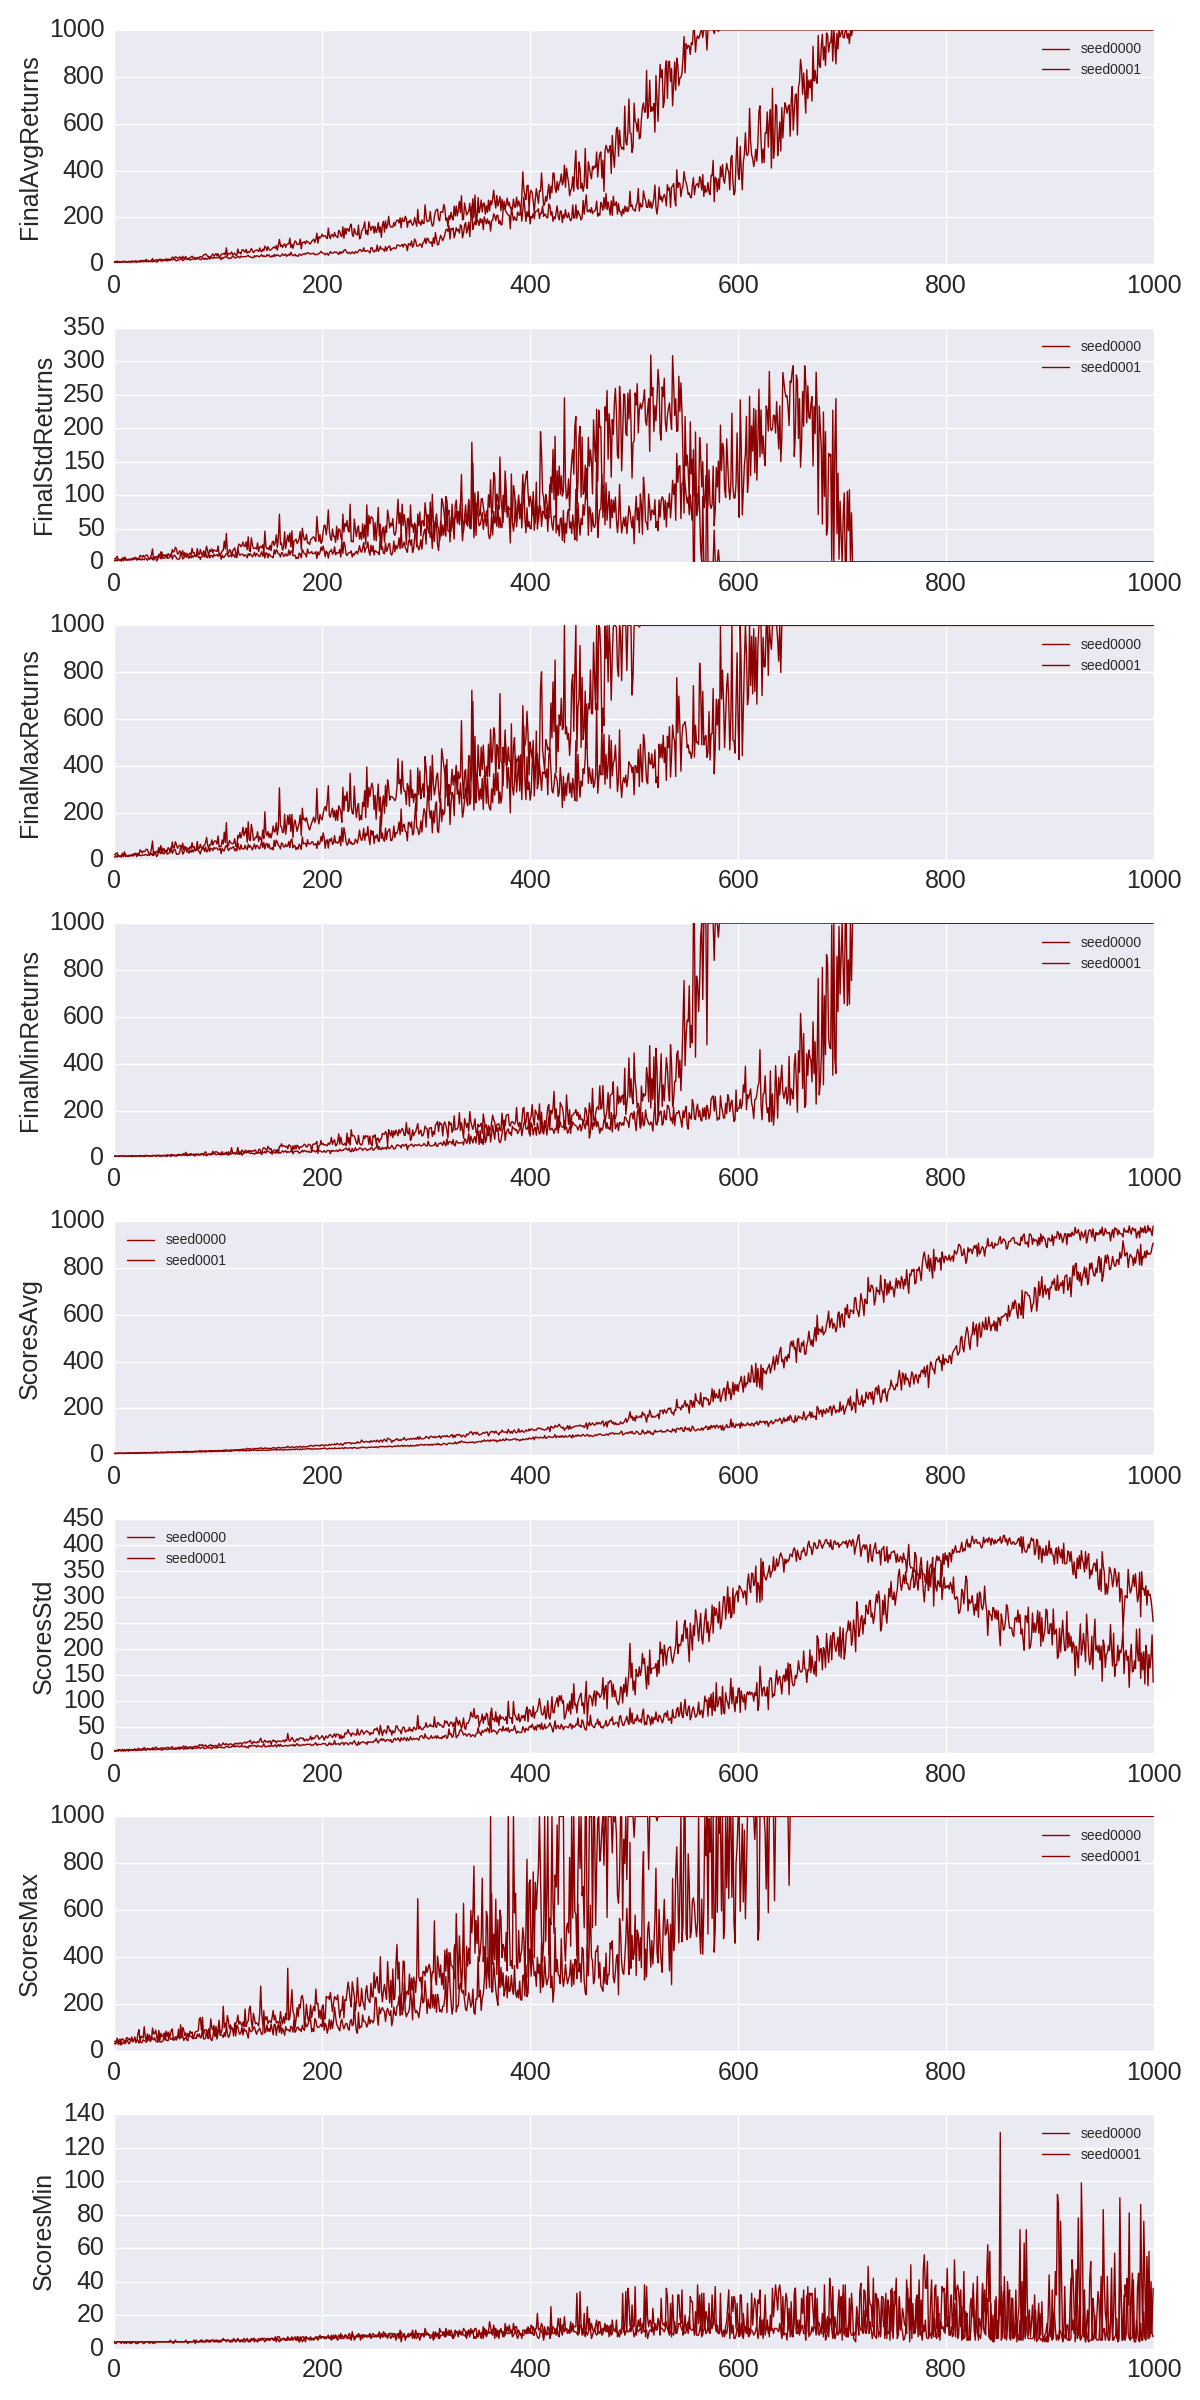
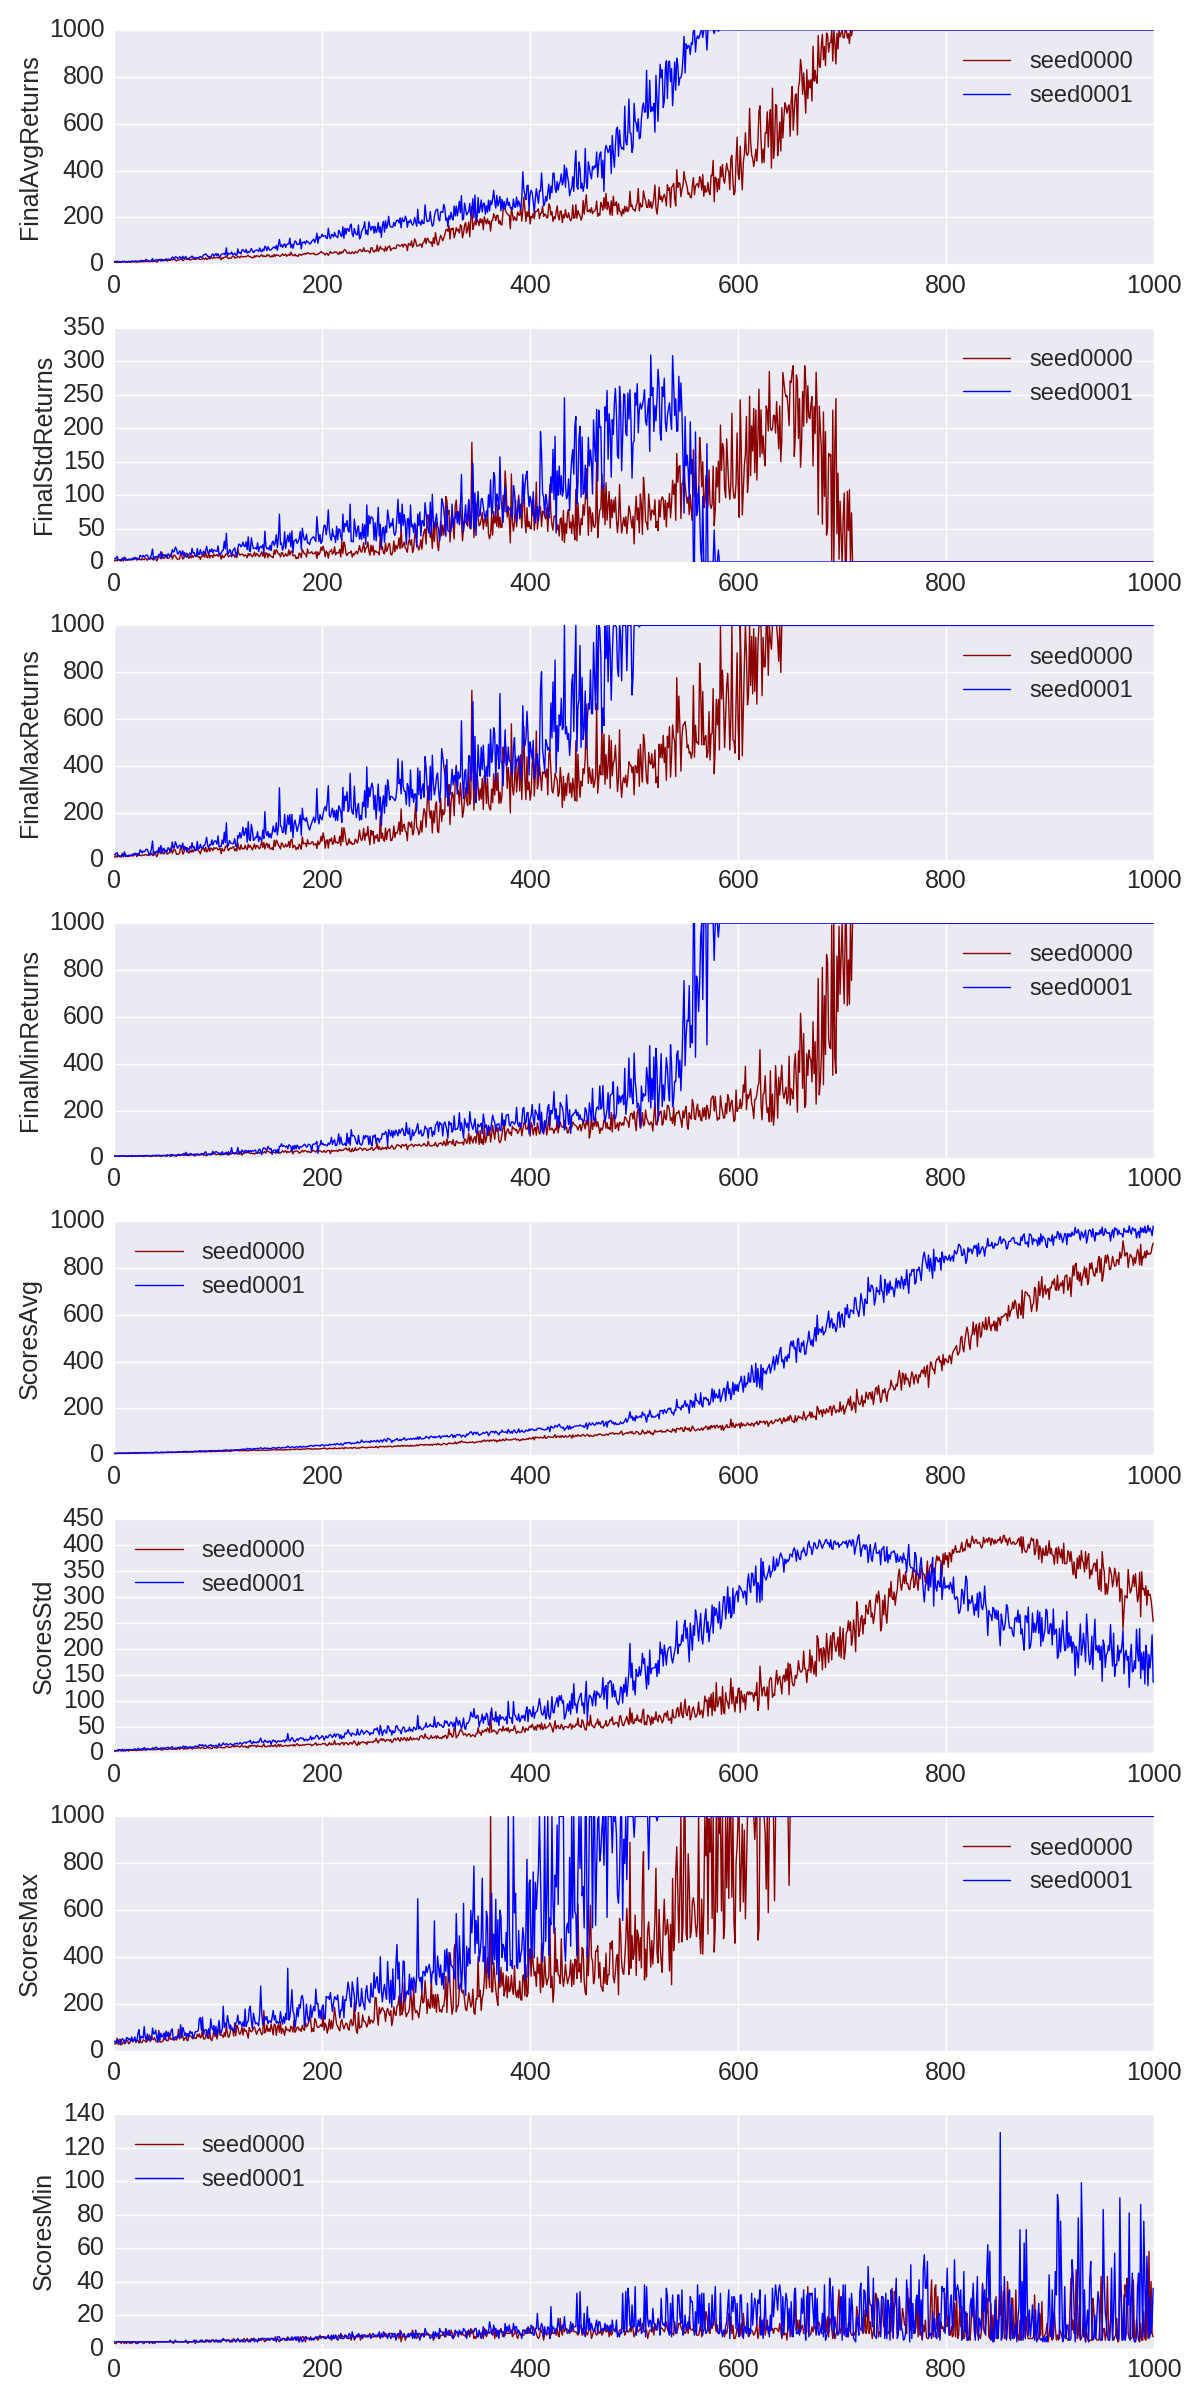
Fixed figures, updated README. Looks better.

diff --git a/es/plot.py b/es/plot.py
@@ -29,7 +29,7 @@ LOGDIR = 'outputs/'
 FIGDIR = 'figures/'
 title_size = 22
 tick_size = 18
-legend_size = 20
+legend_size = 17
 ysize = 18
 xsize = 18
 lw = 1
@@ -49,6 +49,8 @@ ATTRIBUTES = ["FinalAvgReturns",
 # Axes labels for environments.
 ENV_TO_YLABELS = {"InvertedPendulum-v1": [0,1000]}
 
+# Colors. In general we won't use all of these.
+COLORS = ['darkred', 'blue']
 
 def plot_one_dir(args, directory):
     """ The actual plotting code.
@@ -64,37 +66,38 @@ def plot_one_dir(args, directory):
     ### Figure 1: The log.txt file.
     num = len(ATTRIBUTES)
     fig, axes = subplots(num, figsize=(12,3*num))
-    for dd in directory:
+    for (dd, cc) in zip(directory, COLORS):
         A = np.genfromtxt(join(args.expdir, dd, 'log.txt'),
                           delimiter='\t', dtype=None, names=True)
         x = A['TotalIterations']
         for (i,attr) in enumerate(ATTRIBUTES):
-            axes[i].plot(x, A[attr], '-', lw=lw, color='darkred', 
-                         label=dd)
+            axes[i].plot(x, A[attr], '-', lw=lw, color=cc, label=dd)
             axes[i].set_ylabel(attr, fontsize=ysize)
             axes[i].tick_params(axis='x', labelsize=tick_size)
             axes[i].tick_params(axis='y', labelsize=tick_size)
-            axes[i].legend(loc='best',ncol=1)
+            axes[i].legend(loc='best', ncol=1, prop={'size':legend_size})
     plt.tight_layout()
     plt.savefig(args.out+'_log.png')
 
     ### Figure 2: Error regions.
-    fig = plt.figure(figsize=(12,10))
-    for dd in directory:
+    num = len(directory)
+    fig, axes = subplots(1,num, figsize=(12*num,10))
+    for (i, (dd, cc)) in enumerate(zip(directory, COLORS)):
         A = np.genfromtxt(join(args.expdir, dd, 'log.txt'),
                           delimiter='\t', dtype=None, names=True)
-        plt.plot(A['TotalIterations'], A["FinalAvgReturns"], 
-                 color='blue', marker='x', ms=ms, lw=lw, label=dd)
-        plt.fill_between(A['TotalIterations'],
-                         A["FinalAvgReturns"] - A["FinalStdReturns"],
-                         A["FinalAvgReturns"] + A["FinalStdReturns"],
-                         alpha = error_region_alpha,
-                         facecolor='y')
-    plt.legend(loc='best',ncol=1)
-    plt.ylim(ENV_TO_YLABELS[args.envname])
-    plt.title("Mean Episode Rewards (10 Trials)", fontsize=title_size)
-    plt.xlabel("ES Iterations", fontsize=xsize)
-    plt.ylabel("Rewards", fontsize=ysize)
+        axes[i].plot(A['TotalIterations'], A["FinalAvgReturns"], 
+                     color=cc, marker='x', ms=ms, lw=lw)
+        axes[i].fill_between(A['TotalIterations'],
+                             A["FinalAvgReturns"] - A["FinalStdReturns"],
+                             A["FinalAvgReturns"] + A["FinalStdReturns"],
+                             alpha = error_region_alpha,
+                             facecolor='y')
+        axes[i].set_ylim(ENV_TO_YLABELS[args.envname])
+        axes[i].tick_params(axis='x', labelsize=tick_size)
+        axes[i].tick_params(axis='y', labelsize=tick_size)
+        axes[i].set_title("Mean Episode Rewards ({})".format(dd), fontsize=title_size)
+        axes[i].set_xlabel("ES Iterations", fontsize=xsize)
+        axes[i].set_ylabel("Rewards", fontsize=ysize)
     plt.tight_layout()
     plt.savefig(args.out+'_rewards_std.png')
 

diff --git a/es/README.md b/es/README.md
@@ -26,8 +26,19 @@ python main.py InvertedPendulum-v1 \
     --verbose
 ```
 
+And then do the same thing, but with seed 0001 instead. (Note: I need to start
+printing out the entire `args` from `argparse` and then saving that somewhere
+instead of relying on bash scripts for settings.)
+
 Yowza! It works! Here's the figure log, followed by the rewards and standard
-deviations.
+deviations. Both seeds exhibit similar behavior, with seed 0001 reaching the
+maximum score of 1000 slightly sooner.
+
+The plots named "Final"-something contain statistics related to the 10
+rollouts the agent made each iteration, *after* it made the evolution strategies
+weight update. The plots named "Scores"-something contain statistics related to
+the 200 rollouts the agent made each iteration, where the 200 rollouts are each
+with some weight perturbation. (This is the `npop` parameter I have.)
 
 ![InvertedPendulum01](figures/InvertedPendulum-v1_log.png?raw=true)
 
